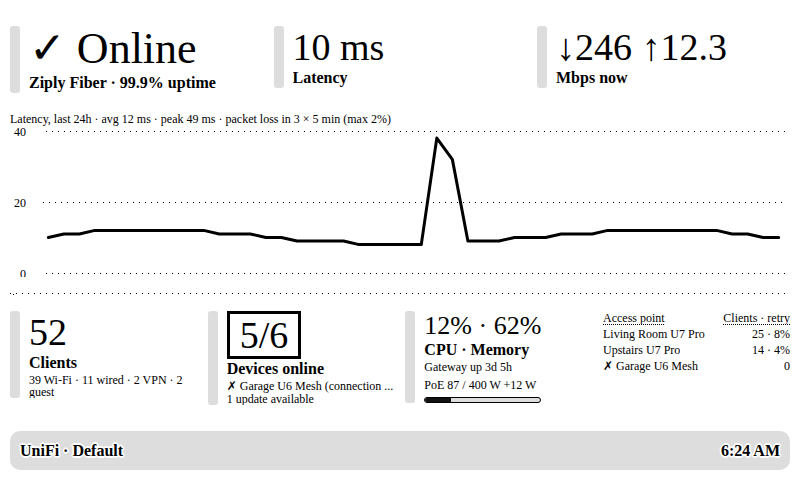
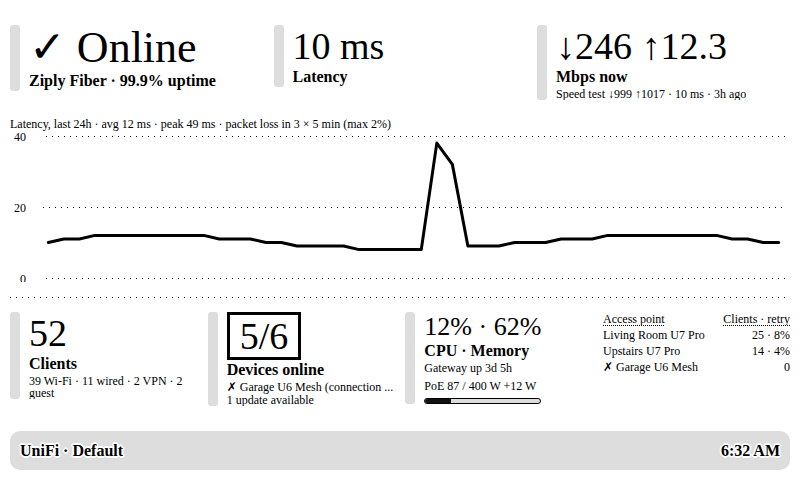
Show the latest speed test on the dashboard
The official APIs don't expose speed test results, so the gateway's
latest test is read from the "www" entry of the classic
/proxy/network/api/s/{site}/stat/health endpoint: download and upload
(Mbps), ping, when it ran and whether it succeeded. It's shown under the
live throughput on the full layout and in the quadrant layout.

PoE and the speed test now share one helper for optional classic-API
features: each is skipped with a single log line if the console rejects
the key, and SHOW_SPEEDTEST=0 turns this one off. check mode reports
both.

Claude-Session: https://claude.ai/code/session_01TfGKYAYE6JRoP3mr8qmx4J

diff --git a/unifi_dashboard.py b/unifi_dashboard.py
@@ -80,6 +80,7 @@ class Config:  # pylint: disable=too-many-instance-attributes,too-few-public-met
         self.interval = int(os.environ.get("PUSH_INTERVAL", "") or 300)
         self.payload_limit = int(os.environ.get("PAYLOAD_LIMIT", "") or 2048)
         self.show_poe = env_flag("SHOW_POE", True)
+        self.show_speedtest = env_flag("SHOW_SPEEDTEST", True)
         self.time_format = os.environ.get("TIME_FORMAT", "%I:%M %p")
         self.listen_host = os.environ.get("HOST", "0.0.0.0")
         self.port = int(os.environ.get("PORT", "") or 5000)
@@ -115,15 +116,21 @@ class LocalApi:
             if not data or offset >= page.get("totalCount", 0):
                 return items
 
-    def legacy_devices(self, site_ref):
-        """Raw devices from the undocumented classic API, the only source of PoE watts.
+    def classic(self, site_ref, path):
+        """Data from the undocumented classic API, the only source of PoE watts and speed tests.
 
         UniFi OS accepts the same X-API-Key here, but Ubiquiti doesn't document
         or guarantee it.
         """
-        response = self.session.get(f"{self.legacy_base}/s/{site_ref}/stat/device", timeout=20)
+        response = self.session.get(f"{self.legacy_base}/s/{site_ref}{path}", timeout=20)
         response.raise_for_status()
         return response.json().get("data") or []
+
+    def legacy_devices(self, site_ref):
+        return self.classic(site_ref, "/stat/device")
+
+    def health(self, site_ref):
+        return self.classic(site_ref, "/stat/health")
 
     def site(self, wanted=""):
         """The site matching UNIFI_SITE (name, internal reference or id), else the first one."""
@@ -346,23 +353,64 @@ def summarize_poe(legacy_devices):
     }
 
 
-_POE_WARNED = []
+def ago(seconds):
+    """How long ago, compactly: now, 25m, 3h, 2d."""
+    if seconds < 60:
+        return "now"
+    if seconds < 3600:
+        return f"{int(seconds // 60)}m"
+    if seconds < 86400:
+        return f"{int(seconds // 3600)}h"
+    return f"{int(seconds // 86400)}d"
+
+
+def summarize_speedtest(health, now=None):
+    """Latest gateway speed test from the "www" entry of classic /stat/health, or None if never run."""
+    www = next((h for h in health if h.get("subsystem") == "www"), {})
+    last_run = to_float(www.get("speedtest_lastrun"))
+    down, up = to_float(www.get("xput_down")), to_float(www.get("xput_up"))
+    if not last_run or (not down and not up):
+        return None
+    now = time.time() if now is None else now
+    return {
+        "down": round(down or 0),
+        "up": round(up or 0),
+        "ping": round(to_float(www.get("speedtest_ping")) or 0) or None,
+        "ago": ago(max(0, now - last_run)),
+        "ok": (www.get("speedtest_status") or "Success").lower() == "success",
+    }
+
+
+_WARNED = set()
+
+
+def classic_feature(name, enabled, fetch):
+    """Runs an optional classic-API feature; failures are logged once per outage and give None."""
+    if not enabled:
+        return None
+    try:
+        result = fetch()
+        _WARNED.discard(name)
+        return result
+    except (requests.RequestException, ValueError) as error:
+        if name not in _WARNED:  # once per outage, not every push
+            flag = "SHOW_" + name.upper().replace(" ", "")
+            print(f"{name} data unavailable (classic API): {error}; set {flag}=0 to stop trying",
+                  file=sys.stderr, flush=True)
+            _WARNED.add(name)
+        return None
 
 
 def build_poe(config, local, site):
     """PoE summary, or None if disabled or the classic API isn't reachable with the key."""
-    if not config.show_poe:
-        return None
-    try:
-        poe = summarize_poe(local.legacy_devices(site.get("internalReference") or "default"))
-        _POE_WARNED.clear()
-        return poe
-    except (requests.RequestException, ValueError) as error:
-        if not _POE_WARNED:  # once per outage, not every push
-            print(f"PoE data unavailable (classic API): {error}; set SHOW_POE=0 to stop trying",
-                  file=sys.stderr, flush=True)
-            _POE_WARNED.append(True)
-        return None
+    ref = site.get("internalReference") or "default"
+    return classic_feature("PoE", config.show_poe, lambda: summarize_poe(local.legacy_devices(ref)))
+
+
+def build_speedtest(config, local, site):
+    """Last speed test, or None if disabled, never run, or the classic API isn't reachable."""
+    ref = site.get("internalReference") or "default"
+    return classic_feature("Speedtest", config.show_speedtest, lambda: summarize_speedtest(local.health(ref)))
 
 
 def internet_status(cloud, gateway):
@@ -448,6 +496,7 @@ def build_dashboard(config, local=None, cloud_api=None):  # pylint: disable=too-
         "updates": sum(1 for d in devices if d.get("firmwareUpdatable")),
         "aps": aps[:MAX_APS],
         "poe": build_poe(config, local, site),
+        "speedtest": build_speedtest(config, local, site),
     }
     return dashboard
 
@@ -527,6 +576,21 @@ def run_server(config):
     ThreadingHTTPServer((config.listen_host, config.port), Handler).serve_forever()
 
 
+def check_classic(config, local, ref):
+    """Reports whether the optional classic-API features work with this key."""
+    checks = (("PoE", config.show_poe, lambda: summarize_poe(local.legacy_devices(ref)), "no PoE devices found"),
+              ("Speedtest", config.show_speedtest, lambda: summarize_speedtest(local.health(ref)),
+               "no speed test has run yet"))
+    for name, enabled, fetch, empty in checks:
+        if not enabled:
+            continue
+        try:
+            result = fetch()
+            print(f"  {name}: {result}" if result else f"  {name}: {empty}")
+        except (requests.RequestException, ValueError) as error:
+            print(f"  {name}: classic API not available with this key ({error}); set SHOW_{name.upper()}=0")
+
+
 def run_check(config):
     """Tests both APIs and prints what was found."""
     ok = True
@@ -536,12 +600,7 @@ def run_check(config):
         site = local.site(config.site)
         devices = local.get_all(f"/sites/{site['id']}/devices")
         print(f"  site: {site.get('name')} ({site.get('internalReference')}), {len(devices)} devices")
-        if config.show_poe:
-            try:
-                poe = summarize_poe(local.legacy_devices(site.get("internalReference") or "default"))
-                print(f"  PoE: {poe}" if poe else "  PoE: no PoE devices found")
-            except (requests.RequestException, ValueError) as error:
-                print(f"  PoE: classic API not available with this key ({error}); set SHOW_POE=0")
+        check_classic(config, local, site.get("internalReference") or "default")
     except (requests.RequestException, ValueError, RuntimeError) as error:
         print(f"  local API FAILED: {error}")
         return False

diff --git a/tests/test_unifi_dashboard.py b/tests/test_unifi_dashboard.py
@@ -1,4 +1,5 @@
 import json
+import time
 from urllib.parse import urlparse
 
 import pytest
@@ -55,6 +56,19 @@ def client(kind, uplink=None, access="DEFAULT"):
 
 LOCAL_BASE = "/proxy/network/integration/v1"
 LEGACY_DEVICES = "/proxy/network/api/s/default/stat/device"
+LEGACY_HEALTH = "/proxy/network/api/s/default/stat/health"
+
+
+def www_health(last_run, down=999.0, up=1017.0, status="Success"):
+    # Shaped like a real UniFi OS stat/health "www" entry (unpoller endpoints_data/stat-health.json).
+    return {"subsystem": "www", "status": "ok", "latency": 9, "uptime": 492506, "drops": 1,
+            "xput_up": up, "xput_down": down, "speedtest_status": status,
+            "speedtest_lastrun": last_run, "speedtest_ping": 10}
+
+
+def health_route(_params):
+    return {"meta": {"rc": "ok"}, "data": [{"subsystem": "wlan", "status": "ok"},
+                                           www_health(time.time() - 3 * 3600 - 60)]}
 
 
 def poe_port(idx, watts, poe=True):
@@ -86,6 +100,7 @@ def local_routes(devices=None, clients=None):
         f"{LOCAL_BASE}/sites/{SITE_ID}/devices": page(devices),
         f"{LOCAL_BASE}/sites/{SITE_ID}/clients": page(clients),
         LEGACY_DEVICES: LEGACY,
+        LEGACY_HEALTH: health_route,
         f"{LOCAL_BASE}/sites/{SITE_ID}/devices/{GW}/statistics/latest": {
             "uptimeSec": 3 * 86400 + 5 * 3600, "cpuUtilizationPct": 12.4, "memoryUtilizationPct": 61.6,
             "uplink": {"rxRateBps": 245_600_000, "txRateBps": 12_300_000}},
@@ -166,6 +181,7 @@ def test_dashboard_end_to_end(config):
                            {"n": "Garage AP", "c": 0, "on": False}]
     assert len(dash["lat"]) == 48
     assert dash["poe"] == {"w": 87, "max": 400, "pct": 22, "other": 12, "hot": ""}
+    assert dash["speedtest"] == {"down": 999, "up": 1017, "ping": 10, "ago": "3h", "ok": True}
 
 
 def test_dashboard_without_cloud_key(config):
@@ -312,7 +328,7 @@ def test_no_poe_devices():
 def test_classic_api_rejected_skips_poe(config, capsys):
     routes = local_routes()
     del routes[LEGACY_DEVICES]  # 404, like a console that refuses the key there
-    ud._POE_WARNED.clear()
+    ud._WARNED.clear()
     first = build(config, local=routes)
     second = build(config, local=routes)
     assert first["poe"] is None and second["poe"] is None
@@ -327,3 +343,32 @@ def test_show_poe_off_skips_classic_api(config):
     dash = ud.build_dashboard(config, ud.LocalApi(config, session))
     assert dash["poe"] is None
     assert LEGACY_DEVICES not in [path for path, _ in session.calls]
+
+
+def test_speedtest_summary():
+    now = 1_769_700_000
+    health = [{"subsystem": "wan"}, www_health(now - 25 * 60, down=236.4, up=11.6)]
+    assert ud.summarize_speedtest(health, now) == {"down": 236, "up": 12, "ping": 10, "ago": "25m", "ok": True}
+    failed = [www_health(now - 2 * 86400 - 5, status="Failed")]
+    assert ud.summarize_speedtest(failed, now)["ok"] is False
+    assert ud.summarize_speedtest(failed, now)["ago"] == "2d"
+
+
+def test_speedtest_never_run():
+    assert ud.summarize_speedtest([{"subsystem": "www", "status": "ok", "latency": 9}]) is None
+    assert ud.summarize_speedtest([www_health(0)]) is None
+    assert ud.summarize_speedtest([www_health(1_769_686_425, down=0, up=0)]) is None
+    assert ud.summarize_speedtest([]) is None
+
+
+def test_ago():
+    assert [ud.ago(s) for s in (5, 90, 3 * 3600, 3 * 86400)] == ["now", "1m", "3h", "3d"]
+
+
+def test_classic_api_rejected_skips_speedtest(config, capsys):
+    routes = local_routes()
+    del routes[LEGACY_HEALTH]
+    ud._WARNED.clear()
+    dash = build(config, local=routes)
+    assert dash["speedtest"] is None and dash["poe"] is not None
+    assert "set SHOW_SPEEDTEST=0" in capsys.readouterr().err

diff --git a/README.md b/README.md
@@ -29,18 +29,22 @@ a compact summary to a TRMNL *webhook* private plugin. No port forwarding or tun
 | Devices online, offline devices, updates | `GET /v1/sites/{id}/devices` (`state`, `firmwareUpdatable`) |
 | Clients and Tx retry % per access point | clients' `uplinkDeviceId` + each AP's `statistics/latest` |
 | PoE watts used / budget | classic `GET /proxy/network/api/s/{site}/stat/device` (see below) |
+| Last speed test: down, up, ping, when | classic `GET /proxy/network/api/s/{site}/stat/health` (see below) |
 
 The cloud key is optional. Without it you still get everything from the console, but no ISP name, latency
 chart or packet loss.
 
-The official APIs don't expose Wi-Fi signal strength, per-client bandwidth or speed test results, so those
-aren't shown.
+The official APIs don't expose Wi-Fi signal strength or per-client bandwidth, so those aren't shown.
 
-**PoE comes from UniFi's older, undocumented API**, because the official one only reports whether a port
-supplies power, not how many watts. UniFi OS accepts the same API key there, but Ubiquiti doesn't
-guarantee that. If your console rejects it, `check` says so, one line is logged, and the dashboard shows
-everything except PoE. Switches report a PoE budget (`total_max_power`); gateways may not, so their
-PoE draw is shown as "+N W" beside the bar rather than in it.
+**PoE and speed tests come from UniFi's older, undocumented API**, because the official one doesn't
+report PoE watts (only whether a port supplies power) or speed test results. UniFi OS accepts the same
+API key there, but Ubiquiti doesn't guarantee that. If your console rejects it, `check` says so, one line
+is logged, and the dashboard shows everything else.
+
+- Switches report a PoE budget (`total_max_power`); gateways may not, so their PoE draw is shown as
+  "+N W" beside the bar rather than in it.
+- The speed test shown is the gateway's latest one, as in UniFi Network's Internet panel. The dashboard
+  doesn't start tests, so turn on automatic speed tests in UniFi Network's settings to keep it fresh.
 
 ## Setup
 
@@ -100,6 +104,7 @@ journalctl -u trmnl-unifi -f      # expect "Pushed internet=up latency=..." ever
 | `UNIFI_CA_BUNDLE` | – | Path to a CA file to verify the console's certificate. |
 | `UNIFI_CLOUD_API_KEY` | – | Site Manager key. Adds ISP, WAN uptime, latency and packet loss. |
 | `SHOW_POE` | `1` | `0` stops reading PoE from the classic API. |
+| `SHOW_SPEEDTEST` | `1` | `0` stops reading speed test results from the classic API. |
 | `UNIFI_CLOUD_SITE_ID` | auto | Only needed with several consoles if `check` can't match the site. |
 | `PUSH_INTERVAL` | `300` | Seconds. TRMNL allows 12 webhook posts per hour (30 with TRMNL+), so don't go below 300 (120 with TRMNL+). |
 | `PAYLOAD_LIMIT` | `2048` | Webhook body limit in bytes; `5120` with TRMNL+. A typical payload is under 1 KB. |
@@ -140,6 +145,7 @@ The variables available in the markup:
 | `updates`, `alerts` | `1`, `0` | devices with firmware updates, critical notifications (cloud) |
 | `aps` | `[{"n": "Living Room", "c": 25, "on": true, "r": 8}]` | name, clients, online, highest Tx retry % across radios; up to 6, busiest first |
 | `poe` | `{"w": 87, "max": 400, "pct": 22, "other": 12, "hot": ""}` | PoE watts drawn and budget over devices that report a budget, % of budget, watts on devices without a budget (e.g. the gateway's own PoE ports), and the name and % of any device at 80%+ of its budget. `null` if unavailable or `SHOW_POE=0`. |
+| `speedtest` | `{"down": 999, "up": 1017, "ping": 10, "ago": "3h", "ok": true}` | Latest gateway speed test in Mbps and ms, how long ago it ran, and whether it succeeded. `null` if no test has run, it's unavailable, or `SHOW_SPEEDTEST=0`. |
 | `site`, `time`, `updated` | `Default`, `5:56 AM`, `1790747811` | |
 
 ## Development
